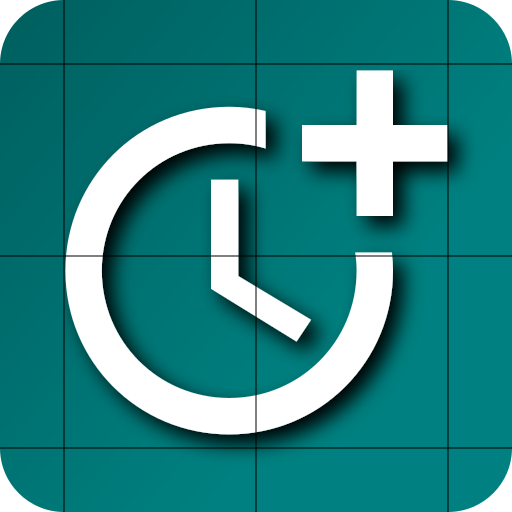
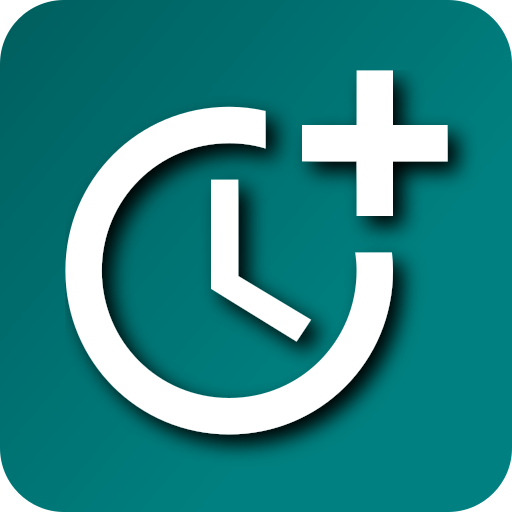
A bit of modernisation

diff --git a/src/qml/LongTextDialog.qml b/src/qml/LongTextDialog.qml
@@ -1,0 +1,75 @@
+/***************************************************************************
+ *   Copyright (C) 2019-2020 by Stefan Kebekus                             *
+ *   stefan.kebekus@gmail.com                                              *
+ *                                                                         *
+ *   This program is free software; you can redistribute it and/or modify  *
+ *   it under the terms of the GNU General Public License as published by  *
+ *   the Free Software Foundation; either version 3 of the License, or     *
+ *   (at your option) any later version.                                   *
+ *                                                                         *
+ *   This program is distributed in the hope that it will be useful,       *
+ *   but WITHOUT ANY WARRANTY; without even the implied warranty of        *
+ *   MERCHANTABILITY or FITNESS FOR A PARTICULAR PURPOSE.  See the         *
+ *   GNU General Public License for more details.                          *
+ *                                                                         *
+ *   You should have received a copy of the GNU General Public License     *
+ *   along with this program; if not, write to the                         *
+ *   Free Software Foundation, Inc.,                                       *
+ *   59 Temple Place - Suite 330, Boston, MA  02111-1307, USA.             *
+ ***************************************************************************/
+
+import QtQuick 2.12
+import QtQuick.Controls 2.12
+
+Dialog {
+    id: dlg
+
+    // This is the text to be shown
+    property var text: ({})
+
+    // Size is chosen so that the dialog does not cover the parent in full
+    width: Math.min(parent.width-Qt.application.font.pixelSize, 40*Qt.application.font.pixelSize)
+    height: Math.min(parent.height-Qt.application.font.pixelSize, implicitHeight)
+
+    modal: true
+    
+    ScrollView{
+        id: sv
+        anchors.fill: parent
+
+        ScrollBar.horizontal.policy: ScrollBar.AlwaysOff
+
+        // The visibility behavior of the vertical scroll bar is a little complex.
+        // The following code guarantees that the scroll bar is shown initially. If it is not used, it is faded out after half a second or so.
+        ScrollBar.vertical.policy: (height < lbl.implicitHeight) ? ScrollBar.AlwaysOn : ScrollBar.AsNeeded
+        ScrollBar.vertical.interactive: false
+
+        clip: true
+         
+        // The Label that we really want to show is wrapped into an Item. This allows
+        // to set implicitHeight, and thus compute the implicitHeight of the Dialog
+        // without binding loops
+        Item {
+            implicitHeight: lbl.implicitHeight
+            width: dlg.availableWidth
+
+            Label {
+                id: lbl
+                text: dlg.text
+                width: dlg.availableWidth
+                textFormat: Text.RichText
+                horizontalAlignment: Text.AlignJustify
+                wrapMode: Text.Wrap
+                onLinkActivated: Qt.openUrlExternally(link)
+            } // Label
+        } // Item
+    } // ScrollView
+    
+    Connections {
+        target: sensorGesture
+        function onDetected(gesture) {
+            close()
+        }
+    }
+
+} // Dialog

diff --git a/src/qml/main.qml b/src/qml/main.qml
@@ -69,73 +69,34 @@ ApplicationWindow {
         focus: true;
     }
 
-    Dialog {
+    LongTextDialog {
         id: helpDialog
-
         anchors.centerIn: parent
-        parent: Overlay.overlay
-
-        width: Math.min(window.width-Qt.application.font.pixelSize, 40*Qt.application.font.pixelSize)
-        modal: true
-
-        standardButtons: DialogButtonBox.Ok
 
         title: qsTr("Help…")
 
-        ScrollView {
-            anchors.fill: parent
-            width: helpDialog.availableWidth
-            ScrollBar.horizontal.policy: ScrollBar.AlwaysOff
-
-            Label {
-                width: helpDialog.availableWidth
-                wrapMode: Text.Wrap
-                leftPadding: Qt.application.font.pixelSize
-                rightPadding: Qt.application.font.pixelSize
-                onLinkActivated: Qt.openUrlExternally(link)
-                textFormat: Text.RichText
-                text: qsTr("
+        text: qsTr("
 <h4>Enter times</h4>
 
 <p>In order to enter the time <strong>1 hour and 23 minutes</strong>, simply press the keys
-  <strong>1</strong>, <strong>2</strong> and <strong>3</strong>.</p>
+<strong>1</strong>, <strong>2</strong> and <strong>3</strong>.</p>
 
 <h4>Reset</h4>
 
 <p>To reset the calculator, press and hold the key <strong>C</strong>.</p>
 ")
-            }
 
-        } // ScrollView
+        standardButtons: DialogButtonBox.Ok
     }
 
-
-    Dialog {
+    LongTextDialog {
         id: infoDialog
-
         anchors.centerIn: parent
         parent: Overlay.overlay
 
-        width: Math.min(window.width-Qt.application.font.pixelSize, 40*Qt.application.font.pixelSize)
-        modal: true
-
-        standardButtons: DialogButtonBox.Ok
-
         title: qsTr("Help…")
 
-        ScrollView {
-            anchors.fill: parent
-            width: helpDialog.availableWidth
-            ScrollBar.horizontal.policy: ScrollBar.AlwaysOff
-
-            Label {
-                width: helpDialog.availableWidth
-                wrapMode: Text.Wrap
-                leftPadding: Qt.application.font.pixelSize
-                rightPadding: Qt.application.font.pixelSize
-                onLinkActivated: Qt.openUrlExternally(link)
-                textFormat: Text.RichText
-                text: qsTr("
+        text: qsTr("
 <h3>Add Hours and Minutes</h3>
 
 <h4>Version %1</h4>
@@ -180,9 +141,9 @@ Public License V3</a>.</p>
 <p>This program builds on a number of open source libraries, including
 <a href='https://www.qt.io'>Qt</a>.</p>
 ").arg(projectVersion)
-            }
 
-        } // ScrollView
+        standardButtons: DialogButtonBox.Ok
+
     }
 
     Shortcut {
